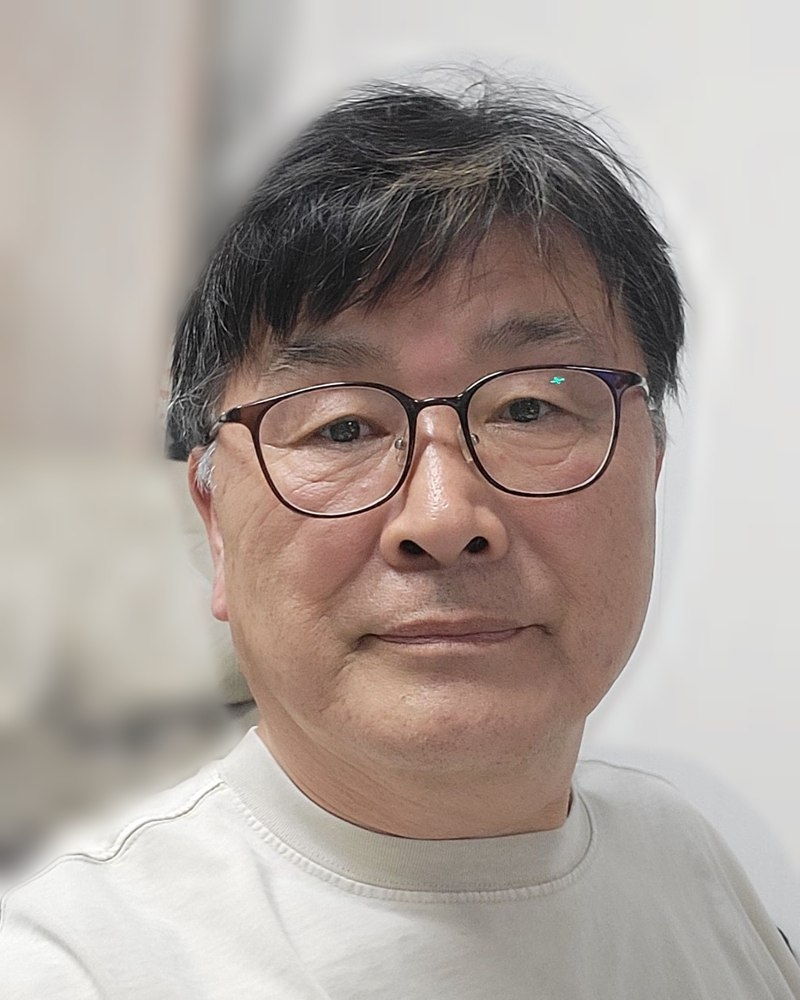
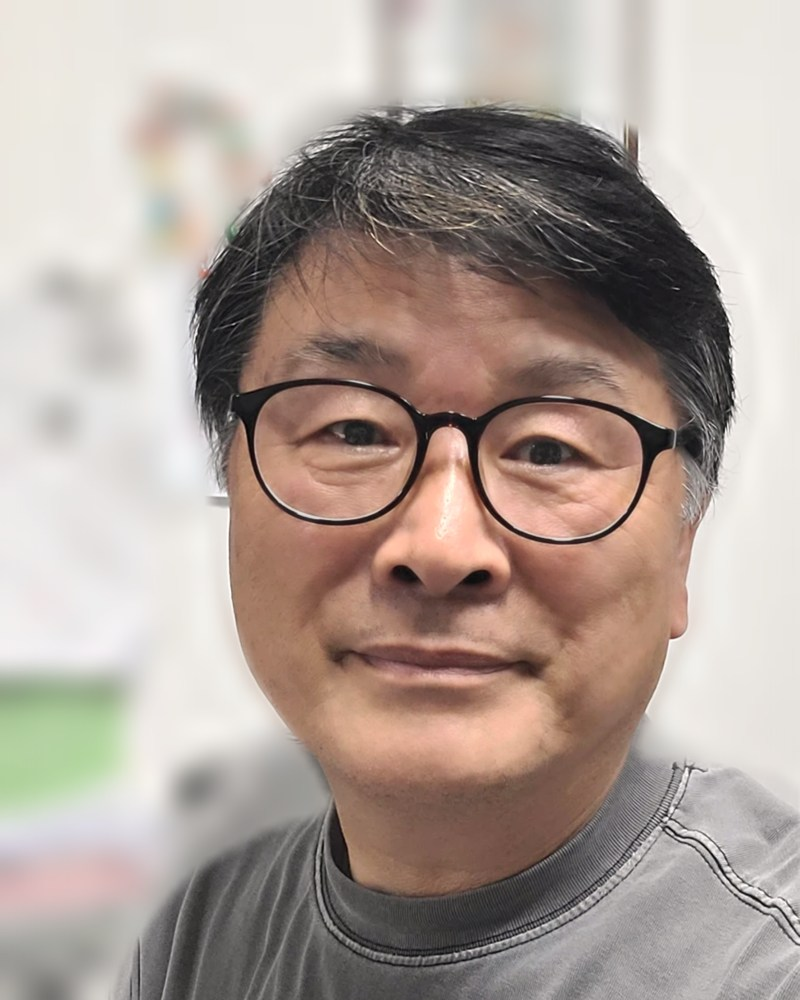
강사 프로필 사진 교체

diff --git a/refined.css b/refined.css
@@ -201,6 +201,6 @@ footer .card-link:hover { color: #fff; border-bottom-color: #fff; }
 .portrait.has-photo::before { content: ""; position: absolute; inset: 14px -14px -14px 14px; border: 2px solid var(--green); border-radius: 2px; }
 .portrait.has-photo img {
   position: relative; width: 100%; height: 100%; object-fit: cover; border-radius: 2px;
-  filter: saturate(1.05) brightness(1.02);
+  filter: none;
 }
 .profile { margin-top: 42px; }
